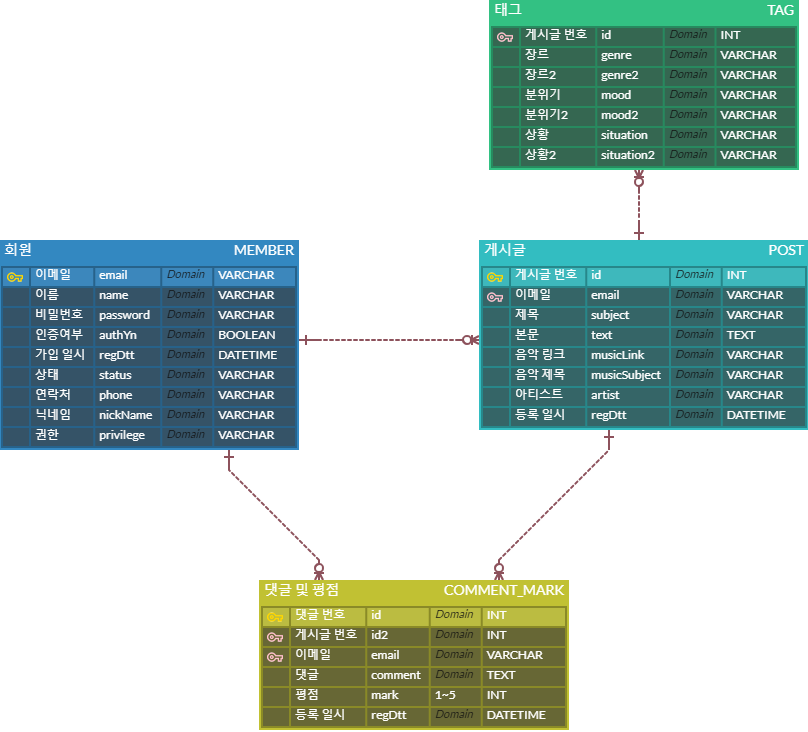
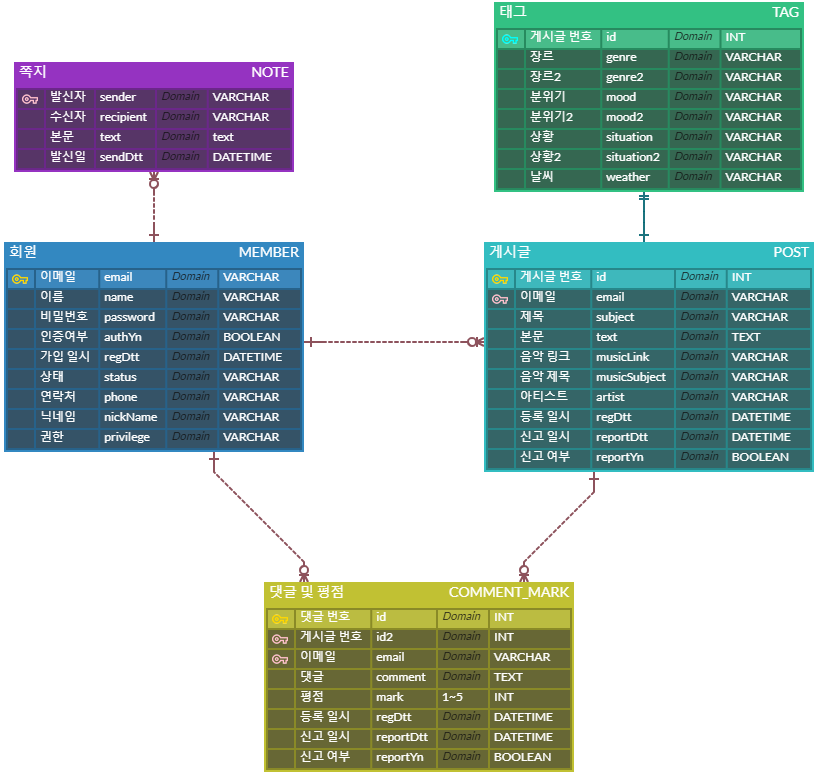
Docs: README.md 수정
구현 기능, ERD 수정

diff --git a/README.md b/README.md
@@ -13,6 +13,9 @@ youtube music, melon 등 음악 스트리밍 서비스를 통해 사용자들이
 ## :hammer: *사용 기술 스택*
 <div align="center">
   <img src="https://img.shields.io/badge/spring boot-6DB33F?style=for-the-badge&logo=springboot&logoColor=white">
+  <img src="https://img.shields.io/badge/spring Security-6DB33F?style=for-the-badge&logo=springsecurity&logoColor=white">
+  <img src="https://img.shields.io/badge/spring JPA-6DB33F?style=for-the-badge&logo=&logoColor=white">
+  <br>
   <img src="https://img.shields.io/badge/thymeleaf-005F0F?style=for-the-badge&logo=thymeleaf&logoColor=white">
   <img src="https://img.shields.io/badge/mariadb-003545?style=for-the-badge&logo=mariadb&logoColor=white">
   <br>
@@ -28,7 +31,7 @@ youtube music, melon 등 음악 스트리밍 서비스를 통해 사용자들이
 
 관리자와 일반 회원이 공통 기능을 사용할 수 있으며, 관리자에게 추가 기능을 부여하고자 한다.
 
-그 외 주요 서비스 기능으로는 검색 기능이 있다.
+그 외 주요 서비스 기능으로는 '필터링을 통한 음악 검색 기능', '오늘 날씨와 어울리는 음악 추천 기능'이 있다.
 
 ### 1. 관리자 기능
 
@@ -55,8 +58,6 @@ youtube music, melon 등 음악 스트리밍 서비스를 통해 사용자들이
     - [ ] 게시글 등록, 삭제, 수정 기능
 - **댓글 기능**
     - [ ] 게시글 댓글 기능 (의견, 평점)
-- **찜 기능**
-    - [ ] 사용자가 다른 회원 또는 게시글을 찜 할 경우, 찜한 게시글 목록을 확인하거나 다른 회원의 게시글을 확인할 수 있는 기능
 - **신고 기능**
     - [ ] 타인의 게시글, 댓글을 신고하는 기능
 - **쪽지 기능**
@@ -66,9 +67,11 @@ youtube music, melon 등 음악 스트리밍 서비스를 통해 사용자들이
 
 ### 3. 그 외 서비스 기능
 
-- **검색 기능**
+- **필터링 검색**
     - [ ] 게시글 제목 및 내용을 통한 검색
-    - [ ] 태그, 평점, 댓글 개수, 찜 개수 등을 통한 필터링 검색  
-
+    - [ ] 태그, 평점, 댓글 개수 등을 통한 필터링 검색
+- **오늘 날씨에 어울리는 음악 추천**
+  - [ ] 날씨 openAPI를 통해 오늘 날씨 데이터를 수집
+  - [ ] 오늘 날씨에 어울리는 음악 추천 목록 제공
 ## :hammer: *DB 구조*  
 ![project ERD](img/Limu_ERD_3.png)
